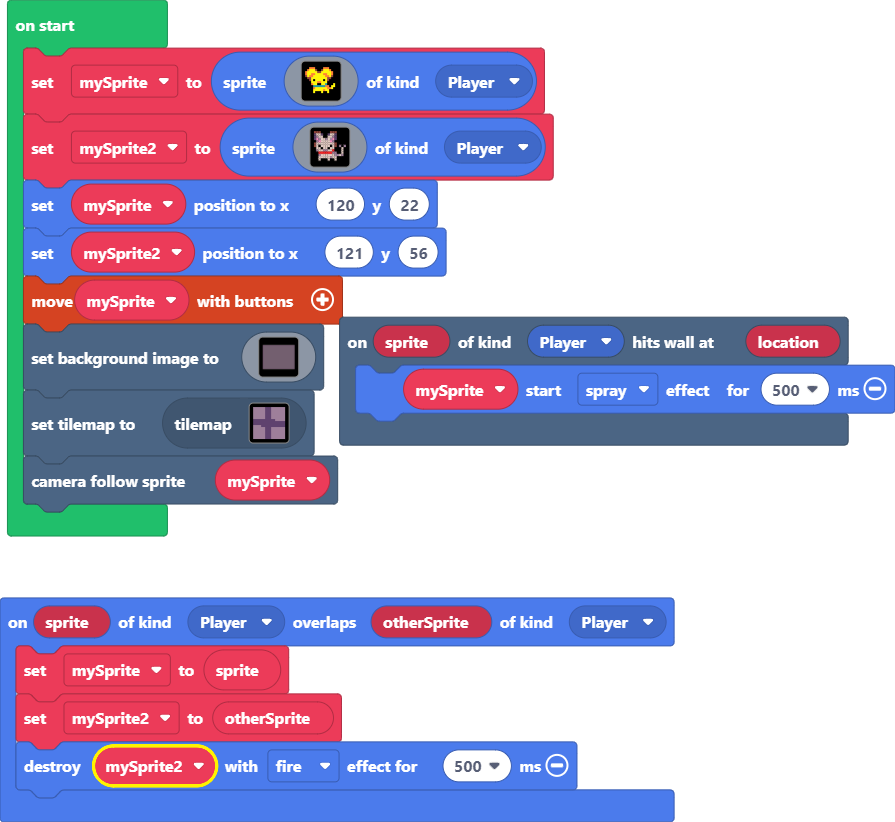
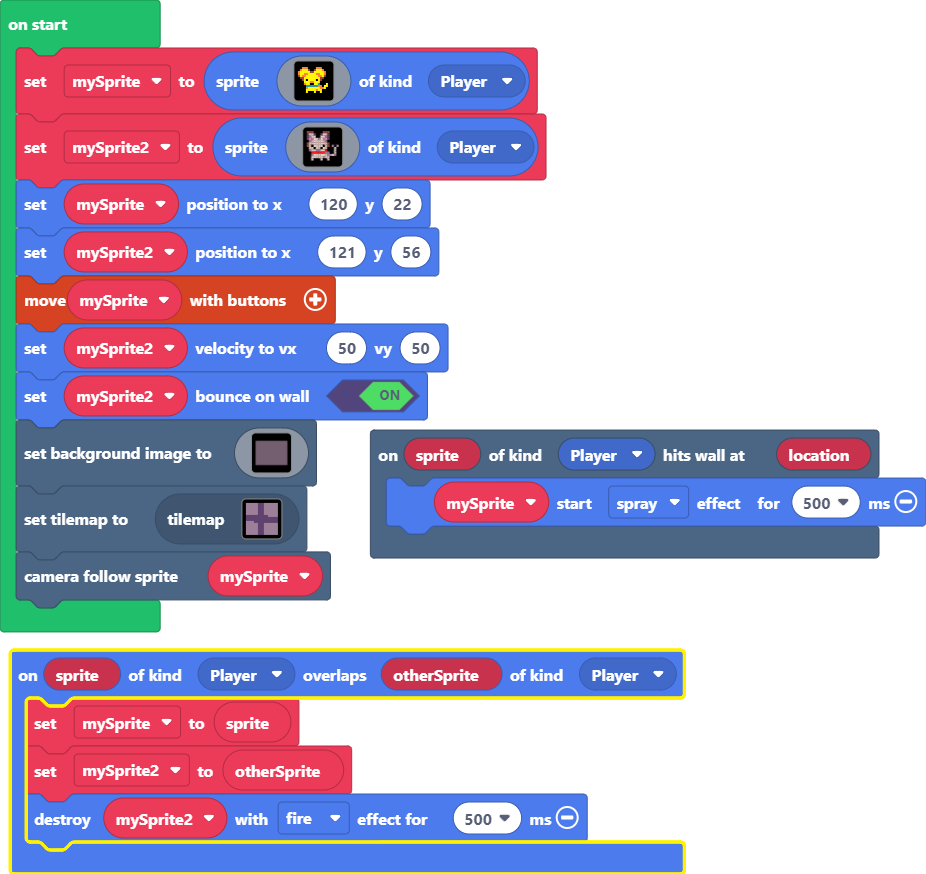
Velocity+bouncing

diff --git a/main.ts b/main.ts
@@ -43,6 +43,8 @@ mySprite2 = sprites.create(img`
 mySprite.setPosition(120, 22)
 mySprite2.setPosition(121, 56)
 controller.moveSprite(mySprite)
+mySprite2.setVelocity(50, 50)
+mySprite2.setBounceOnWall(true)
 scene.setBackgroundImage(img`
     bbbbbbbbbbbbbbbbbbbbbbbbbbbbbbbbbbbbbbbbbbbbbbbbbbbbbbbbbbbbbbbbbbbbbbbbbbbbbbbbbbbbbbbbbbbbbbbbbbbbbbbbbbbbbbbbbbbbbbbbbbbbbbbbbbbbbbbbbbbbbbbbbbbbbbbbbbbbbbbb
     bbbbbbbbbbbbbbbbbbbbbbbbbbbbbbbbbbbbbbbbbbbbbbbbbbbbbbbbbbbbbbbbbbbbbbbbbbbbbbbbbbbbbbbbbbbbbbbbbbbbbbbbbbbbbbbbbbbbbbbbbbbbbbbbbbbbbbbbbbbbbbbbbbbbbbbbbbbbbbbb

diff --git a/main.py b/main.py
@@ -1,0 +1,178 @@
+def on_hit_wall(sprite, location):
+    mySprite.start_effect(effects.spray, 500)
+scene.on_hit_wall(SpriteKind.player, on_hit_wall)
+
+def on_on_overlap(sprite2, otherSprite):
+    global mySprite, mySprite2
+    mySprite = sprite2
+    mySprite2 = otherSprite
+    mySprite2.destroy(effects.fire, 500)
+sprites.on_overlap(SpriteKind.player, SpriteKind.player, on_on_overlap)
+
+mySprite2: Sprite = None
+mySprite: Sprite = None
+mySprite = sprites.create(img("""
+        . . 4 4 4 . . . . 4 4 4 . . . . 
+            . 4 5 5 5 e . . e 5 5 5 4 . . . 
+            4 5 5 5 5 5 e e 5 5 5 5 5 4 . . 
+            4 5 5 4 4 5 5 5 5 4 4 5 5 4 . . 
+            e 5 4 4 5 5 5 5 5 5 4 4 5 e . . 
+            . e e 5 5 5 5 5 5 5 5 e e . . . 
+            . . e 5 f 5 5 5 5 f 5 e . . . . 
+            . . f 5 5 5 4 4 5 5 5 f . . f f 
+            . . f 4 5 5 f f 5 5 6 f . f 5 f 
+            . . . f 6 6 6 6 6 6 4 4 f 5 5 f 
+            . . . f 4 5 5 5 5 5 5 4 4 5 f . 
+            . . . f 5 5 5 5 5 4 5 5 f f . . 
+            . . . f 5 f f f 5 f f 5 f . . . 
+            . . . f f . . f f . . f f . . .
+    """),
+    SpriteKind.player)
+mySprite2 = sprites.create(img("""
+        e e e . . . . e e e . . . . 
+            c d d c . . c d d c . . . . 
+            c b d d f f d d b c . . . . 
+            c 3 b d d b d b 3 c . . . . 
+            f b 3 d d d d 3 b f . . . . 
+            e d d d d d d d d e . . . . 
+            e d f d d d d f d e . b f b 
+            f d d f d d f d d f . f d f 
+            f b d d b b d d 2 f . f d f 
+            . f 2 2 2 2 2 2 b b f f d f 
+            . f b d d d d d d b b d b f 
+            . f d d d d d b d d f f f . 
+            . f d f f f d f f d f . . . 
+            . f f . . f f . . f f . . .
+    """),
+    SpriteKind.player)
+mySprite.set_position(120, 22)
+mySprite2.set_position(121, 56)
+controller.move_sprite(mySprite)
+mySprite2.set_velocity(50, 50)
+mySprite2.set_bounce_on_wall(True)
+scene.set_background_image(img("""
+    bbbbbbbbbbbbbbbbbbbbbbbbbbbbbbbbbbbbbbbbbbbbbbbbbbbbbbbbbbbbbbbbbbbbbbbbbbbbbbbbbbbbbbbbbbbbbbbbbbbbbbbbbbbbbbbbbbbbbbbbbbbbbbbbbbbbbbbbbbbbbbbbbbbbbbbbbbbbbbbb
+        bbbbbbbbbbbbbbbbbbbbbbbbbbbbbbbbbbbbbbbbbbbbbbbbbbbbbbbbbbbbbbbbbbbbbbbbbbbbbbbbbbbbbbbbbbbbbbbbbbbbbbbbbbbbbbbbbbbbbbbbbbbbbbbbbbbbbbbbbbbbbbbbbbbbbbbbbbbbbbbb
+        bbbbbbbbbbbbbbbbbbbbbbbbbbbbbbbbbbbbbbbbbbbbbbbbbbbbbbbbbbbbbbbbbbbbbbbbbbbbbbbbbbbbbbbbbbbbbbbbbbbbbbbbbbbbbbbbbbbbbbbbbbbbbbbbbbbbbbbbbbbbbbbbbbbbbbbbbbbbbbbb
+        bbbbbbbbbbbbbbbbbbbbbbbbbbbbbbbbbbbbbbbbbbbbbbbbbbbbbbbbbbbbbbbbbbbbbbbbbbbbbbbbbbbbbbbbbbbbbbbbbbbbbbbbbbbbbbbbbbbbbbbbbbbbbbbbbbbbbbbbbbbbbbbbbbbbbbbbbbbbbbbb
+        bbbbbbbbbbbbbbbbbbbbbbbbbbbbbbbbbbbbbbbbbbbbbbbbbbbbbbbbbbbbbbbbbbbbbbbbbbbbbbbbbbbbbbbbbbbbbbbbbbbbbbbbbbbbbbbbbbbbbbbbbbbbbbbbbbbbbbbbbbbbbbbbbbbbbbbbbbbbbbbb
+        bbbbbbbbbbbbbbbbbbbbbbbbbbbbbbbbbbbbbbbbbbbbbbbbbbbbbbbbbbbbbbbbbbbbbbbbbbbbbbbbbbbbbbbbbbbbbbbbbbbbbbbbbbbbbbbbbbbbbbbbbbbbbbbbbbbbbbbbbbbbbbbbbbbbbbbbbbbbbbbb
+        bbbbbbbbbbbbbbbbbbbbbbbbbbbbbbbbbbbbbbbbbbbbbbbbbbbbbbbbbbbbbbbbbbbbbbbbbbbbbbbbbbbbbbbbbbbbbbbbbbbbbbbbbbbbbbbbbbbbbbbbbbbbbbbbbbbbbbbbbbbbbbbbbbbbbbbbbbbbbbbb
+        bbbbbbbbbbbbbbbbbbbbbbbbbbbbbbbbbbbbbbbbbbbbbbbbbbbbbbbbbbbbbbbbbbbbbbbbbbbbbbbbbbbbbbbbbbbbbbbbbbbbbbbbbbbbbbbbbbbbbbbbbbbbbbbbbbbbbbbbbbbbbbbbbbbbbbbbbbbbbbbb
+        bbbbbbbbbbbbbbbbbbbbbbbbbbbbbbbbbbbbbbbbbbbbbbbbbbbbbbbbbbbbbbbbbbbbbbbbbbbbbbbbbbbbbbbbbbbbbbbbbbbbbbbbbbbbbbbbbbbbbbbbbbbbbbbbbbbbbbbbbbbbbbbbbbbbbbbbbbbbbbbb
+        bbbbbbbbbbbbbbbbbbbbbbbbbbbbbbbbbbbbbbbbbbbbbbbbbbbbbbbbbbbbbbbbbbbbbbbbbbbbbbbbbbbbbbbbbbbbbbbbbbbbbbbbbbbbbbbbbbbbbbbbbbbbbbbbbbbbbbbbbbbbbbbbbbbbbbbbbbbbbbbb
+        bbbbbbbbbbbbbbbbbbbbbbbbbbbbbbbbbbbbbbbbbbbbbbbbbbbbbbbbbbbbbbbbbbbbbbbbbbbbbbbbbbbbbbbbbbbbbbbbbbbbbbbbbbbbbbbbbbbbbbbbbbbbbbbbbbbbbbbbbbbbbbbbbbbbbbbbbbbbbbbb
+        bbbbbbbbbbbbbbbbbbbbbbbbbbbbbbbbbbbbbbbbbbbbbbbbbbbbbbbbbbbbbbbbbbbbbbbbbbbbbbbbbbbbbbbbbbbbbbbbbbbbbbbbbbbbbbbbbbbbbbbbbbbbbbbbbbbbbbbbbbbbbbbbbbbbbbbbbbbbbbbb
+        bbbbbbbbbbbbbbbbbbbbbbbbbbbbbbbbbbbbbbbbbbbbbbbbbbbbbbbbbbbbbbbbbbbbbbbbbbbbbbbbbbbbbbbbbbbbbbbbbbbbbbbbbbbbbbbbbbbbbbbbbbbbbbbbbbbbbbbbbbbbbbbbbbbbbbbbbbbbbbbb
+        bbbbbbbbbbbbbbbbbbbbbbbbbbbbbbbbbbbbbbbbbbbbbbbbbbbbbbbbbbbbbbbbbbbbbbbbbbbbbbbbbbbbbbbbbbbbbbbbbbbbbbbbbbbbbbbbbbbbbbbbbbbbbbbbbbbbbbbbbbbbbbbbbbbbbbbbbbbbbbbb
+        bbbbbbbbbbbbbbbbbbbbbbbbbbbbbbbbbbbbbbbbbbbbbbbbbbbbbbbbbbbbbbbbbbbbbbbbbbbbbbbbbbbbbbbbbbbbbbbbbbbbbbbbbbbbbbbbbbbbbbbbbbbbbbbbbbbbbbbbbbbbbbbbbbbbbbbbbbbbbbbb
+        bbbbbbbbbbbbbbbbbbbbbbbbbbbbbbbbbbbbbbbbbbbbbbbbbbbbbbbbbbbbbbbbbbbbbbbbbbbbbbbbbbbbbbbbbbbbbbbbbbbbbbbbbbbbbbbbbbbbbbbbbbbbbbbbbbbbbbbbbbbbbbbbbbbbbbbbbbbbbbbb
+        bbbbbbbbbbbbbbbbbbbbbbbbbbbbbbbbbbbbbbbbbbbbbbbbbbbbbbbbbbbbbbbbbbbbbbbbbbbbbbbbbbbbbbbbbbbbbbbbbbbbbbbbbbbbbbbbbbbbbbbbbbbbbbbbbbbbbbbbbbbbbbbbbbbbbbbbbbbbbbbb
+        bbbbbbbbbbbbbbbbbbbbbbbbbbbbbbbbbbbbbbbbbbbbbbbbbbbbbbbbbbbbbbbbbbbbbbbbbbbbbbbbbbbbbbbbbbbbbbbbbbbbbbbbbbbbbbbbbbbbbbbbbbbbbbbbbbbbbbbbbbbbbbbbbbbbbbbbbbbbbbbb
+        bbbbbbbbbbbbbbbbbbbbbbbbbbbbbbbbbbbbbbbbbbbbbbbbbbbbbbbbbbbbbbbbbbbbbbbbbbbbbbbbbbbbbbbbbbbbbbbbbbbbbbbbbbbbbbbbbbbbbbbbbbbbbbbbbbbbbbbbbbbbbbbbbbbbbbbbbbbbbbbb
+        bbbbbbbbbbbbbbbbbbbbbbbbbbbbbbbbbbbbbbbbbbbbbbbbbbbbbbbbbbbbbbbbbbbbbbbbbbbbbbbbbbbbbbbbbbbbbbbbbbbbbbbbbbbbbbbbbbbbbbbbbbbbbbbbbbbbbbbbbbbbbbbbbbbbbbbbbbbbbbbb
+        bbbbbbbbbbbbbbbbbbbbbbbbbbbbbbbbbbbbbbbbbbbbbbbbbbbbbbbbbbbbbbbbbbbbbbbbbbbbbbbbbbbbbbbbbbbbbbbbbbbbbbbbbbbbbbbbbbbbbbbbbbbbbbbbbbbbbbbbbbbbbbbbbbbbbbbbbbbbbbbb
+        bbbbbbbbbbbbbbbbbbbbbbbbbbbbbbbbbbbbbbbbbbbbbbbbbbbbbbbbbbbbbbbbbbbbbbbbbbbbbbbbbbbbbbbbbbbbbbbbbbbbbbbbbbbbbbbbbbbbbbbbbbbbbbbbbbbbbbbbbbbbbbbbbbbbbbbbbbbbbbbb
+        bbbbbbbbbbbbbbbbbbbbbbbbbbbbbbbbbbbbbbbbbbbbbbbbbbbbbbbbbbbbbbbbbbbbbbbbbbbbbbbbbbbbbbbbbbbbbbbbbbbbbbbbbbbbbbbbbbbbbbbbbbbbbbbbbbbbbbbbbbbbbbbbbbbbbbbbbbbbbbbb
+        bbbbbbbbbbbbbbbbbbbbbbbbbbbbbbbbbbbbbbbbbbbbbbbbbbbbbbbbbbbbbbbbbbbbbbbbbbbbbbbbbbbbbbbbbbbbbbbbbbbbbbbbbbbbbbbbbbbbbbbbbbbbbbbbbbbbbbbbbbbbbbbbbbbbbbbbbbbbbbbb
+        bbbbbbbbbbbbbbbbbbbbbbbbbbbbbbbbbbbbbbbbbbbbbbbbbbbbbbbbbbbbbbbbbbbbbbbbbbbbbbbbbbbbbbbbbbbbbbbbbbbbbbbbbbbbbbbbbbbbbbbbbbbbbbbbbbbbbbbbbbbbbbbbbbbbbbbbbbbbbbbb
+        bbbbbbbbbbbbbbbbbbbbbbbbbbbbbbbbbbbbbbbbbbbbbbbbbbbbbbbbbbbbbbbbbbbbbbbbbbbbbbbbbbbbbbbbbbbbbbbbbbbbbbbbbbbbbbbbbbbbbbbbbbbbbbbbbbbbbbbbbbbbbbbbbbbbbbbbbbbbbbbb
+        bbbbbbbbbbbbbbbbbbbbbbbbbbbbbbbbbbbbbbbbbbbbbbbbbbbbbbbbbbbbbbbbbbbbbbbbbbbbbbbbbbbbbbbbbbbbbbbbbbbbbbbbbbbbbbbbbbbbbbbbbbbbbbbbbbbbbbbbbbbbbbbbbbbbbbbbbbbbbbbb
+        bbbbbbbbbbbbbbbbbbbbbbbbbbbbbbbbbbbbbbbbbbbbbbbbbbbbbbbbbbbbbbbbbbbbbbbbbbbbbbbbbbbbbbbbbbbbbbbbbbbbbbbbbbbbbbbbbbbbbbbbbbbbbbbbbbbbbbbbbbbbbbbbbbbbbbbbbbbbbbbb
+        bbbbbbbbbbbbbbbbbbbbbbbbbbbbbbbbbbbbbbbbbbbbbbbbbbbbbbbbbbbbbbbbbbbbbbbbbbbbbbbbbbbbbbbbbbbbbbbbbbbbbbbbbbbbbbbbbbbbbbbbbbbbbbbbbbbbbbbbbbbbbbbbbbbbbbbbbbbbbbbb
+        bbbbbbbbbbbbbbbbbbbbbbbbbbbbbbbbbbbbbbbbbbbbbbbbbbbbbbbbbbbbbbbbbbbbbbbbbbbbbbbbbbbbbbbbbbbbbbbbbbbbbbbbbbbbbbbbbbbbbbbbbbbbbbbbbbbbbbbbbbbbbbbbbbbbbbbbbbbbbbbb
+        bbbbbbbbbbbbbbbbbbbbbbbbbbbbbbbbbbbbbbbbbbbbbbbbbbbbbbbbbbbbbbbbbbbbbbbbbbbbbbbbbbbbbbbbbbbbbbbbbbbbbbbbbbbbbbbbbbbbbbbbbbbbbbbbbbbbbbbbbbbbbbbbbbbbbbbbbbbbbbbb
+        bbbbbbbbbbbbbbbbbbbbbbbbbbbbbbbbbbbbbbbbbbbbbbbbbbbbbbbbbbbbbbbbbbbbbbbbbbbbbbbbbbbbbbbbbbbbbbbbbbbbbbbbbbbbbbbbbbbbbbbbbbbbbbbbbbbbbbbbbbbbbbbbbbbbbbbbbbbbbbbb
+        bbbbbbbbbbbbbbbbbbbbbbbbbbbbbbbbbbbbbbbbbbbbbbbbbbbbbbbbbbbbbbbbbbbbbbbbbbbbbbbbbbbbbbbbbbbbbbbbbbbbbbbbbbbbbbbbbbbbbbbbbbbbbbbbbbbbbbbbbbbbbbbbbbbbbbbbbbbbbbbb
+        bbbbbbbbbbbbbbbbbbbbbbbbbbbbbbbbbbbbbbbbbbbbbbbbbbbbbbbbbbbbbbbbbbbbbbbbbbbbbbbbbbbbbbbbbbbbbbbbbbbbbbbbbbbbbbbbbbbbbbbbbbbbbbbbbbbbbbbbbbbbbbbbbbbbbbbbbbbbbbbb
+        bbbbbbbbbbbbbbbbbbbbbbbbbbbbbbbbbbbbbbbbbbbbbbbbbbbbbbbbbbbbbbbbbbbbbbbbbbbbbbbbbbbbbbbbbbbbbbbbbbbbbbbbbbbbbbbbbbbbbbbbbbbbbbbbbbbbbbbbbbbbbbbbbbbbbbbbbbbbbbbb
+        bbbbbbbbbbbbbbbbbbbbbbbbbbbbbbbbbbbbbbbbbbbbbbbbbbbbbbbbbbbbbbbbbbbbbbbbbbbbbbbbbbbbbbbbbbbbbbbbbbbbbbbbbbbbbbbbbbbbbbbbbbbbbbbbbbbbbbbbbbbbbbbbbbbbbbbbbbbbbbbb
+        bbbbbbbbbbbbbbbbbbbbbbbbbbbbbbbbbbbbbbbbbbbbbbbbbbbbbbbbbbbbbbbbbbbbbbbbbbbbbbbbbbbbbbbbbbbbbbbbbbbbbbbbbbbbbbbbbbbbbbbbbbbbbbbbbbbbbbbbbbbbbbbbbbbbbbbbbbbbbbbb
+        bbbbbbbbbbbbbbbbbbbbbbbbbbbbbbbbbbbbbbbbbbbbbbbbbbbbbbbbbbbbbbbbbbbbbbbbbbbbbbbbbbbbbbbbbbbbbbbbbbbbbbbbbbbbbbbbbbbbbbbbbbbbbbbbbbbbbbbbbbbbbbbbbbbbbbbbbbbbbbbb
+        bbbbbbbbbbbbbbbbbbbbbbbbbbbbbbbbbbbbbbbbbbbbbbbbbbbbbbbbbbbbbbbbbbbbbbbbbbbbbbbbbbbbbbbbbbbbbbbbbbbbbbbbbbbbbbbbbbbbbbbbbbbbbbbbbbbbbbbbbbbbbbbbbbbbbbbbbbbbbbbb
+        bbbbbbbbbbbbbbbbbbbbbbbbbbbbbbbbbbbbbbbbbbbbbbbbbbbbbbbbbbbbbbbbbbbbbbbbbbbbbbbbbbbbbbbbbbbbbbbbbbbbbbbbbbbbbbbbbbbbbbbbbbbbbbbbbbbbbbbbbbbbbbbbbbbbbbbbbbbbbbbb
+        bbbbbbbbbbbbbbbbbbbbbbbbbbbbbbbbbbbbbbbbbbbbbbbbbbbbbbbbbbbbbbbbbbbbbbbbbbbbbbbbbbbbbbbbbbbbbbbbbbbbbbbbbbbbbbbbbbbbbbbbbbbbbbbbbbbbbbbbbbbbbbbbbbbbbbbbbbbbbbbb
+        bbbbbbbbbbbbbbbbbbbbbbbbbbbbbbbbbbbbbbbbbbbbbbbbbbbbbbbbbbbbbbbbbbbbbbbbbbbbbbbbbbbbbbbbbbbbbbbbbbbbbbbbbbbbbbbbbbbbbbbbbbbbbbbbbbbbbbbbbbbbbbbbbbbbbbbbbbbbbbbb
+        bbbbbbbbbbbbbbbbbbbbbbbbbbbbbbbbbbbbbbbbbbbbbbbbbbbbbbbbbbbbbbbbbbbbbbbbbbbbbbbbbbbbbbbbbbbbbbbbbbbbbbbbbbbbbbbbbbbbbbbbbbbbbbbbbbbbbbbbbbbbbbbbbbbbbbbbbbbbbbbb
+        bbbbbbbbbbbbbbbbbbbbbbbbbbbbbbbbbbbbbbbbbbbbbbbbbbbbbbbbbbbbbbbbbbbbbbbbbbbbbbbbbbbbbbbbbbbbbbbbbbbbbbbbbbbbbbbbbbbbbbbbbbbbbbbbbbbbbbbbbbbbbbbbbbbbbbbbbbbbbbbb
+        bbbbbbbbbbbbbbbbbbbbbbbbbbbbbbbbbbbbbbbbbbbbbbbbbbbbbbbbbbbbbbbbbbbbbbbbbbbbbbbbbbbbbbbbbbbbbbbbbbbbbbbbbbbbbbbbbbbbbbbbbbbbbbbbbbbbbbbbbbbbbbbbbbbbbbbbbbbbbbbb
+        bbbbbbbbbbbbbbbbbbbbbbbbbbbbbbbbbbbbbbbbbbbbbbbbbbbbbbbbbbbbbbbbbbbbbbbbbbbbbbbbbbbbbbbbbbbbbbbbbbbbbbbbbbbbbbbbbbbbbbbbbbbbbbbbbbbbbbbbbbbbbbbbbbbbbbbbbbbbbbbb
+        bbbbbbbbbbbbbbbbbbbbbbbbbbbbbbbbbbbbbbbbbbbbbbbbbbbbbbbbbbbbbbbbbbbbbbbbbbbbbbbbbbbbbbbbbbbbbbbbbbbbbbbbbbbbbbbbbbbbbbbbbbbbbbbbbbbbbbbbbbbbbbbbbbbbbbbbbbbbbbbb
+        bbbbbbbbbbbbbbbbbbbbbbbbbbbbbbbbbbbbbbbbbbbbbbbbbbbbbbbbbbbbbbbbbbbbbbbbbbbbbbbbbbbbbbbbbbbbbbbbbbbbbbbbbbbbbbbbbbbbbbbbbbbbbbbbbbbbbbbbbbbbbbbbbbbbbbbbbbbbbbbb
+        bbbbbbbbbbbbbbbbbbbbbbbbbbbbbbbbbbbbbbbbbbbbbbbbbbbbbbbbbbbbbbbbbbbbbbbbbbbbbbbbbbbbbbbbbbbbbbbbbbbbbbbbbbbbbbbbbbbbbbbbbbbbbbbbbbbbbbbbbbbbbbbbbbbbbbbbbbbbbbbb
+        bbbbbbbbbbbbbbbbbbbbbbbbbbbbbbbbbbbbbbbbbbbbbbbbbbbbbbbbbbbbbbbbbbbbbbbbbbbbbbbbbbbbbbbbbbbbbbbbbbbbbbbbbbbbbbbbbbbbbbbbbbbbbbbbbbbbbbbbbbbbbbbbbbbbbbbbbbbbbbbb
+        bbbbbbbbbbbbbbbbbbbbbbbbbbbbbbbbbbbbbbbbbbbbbbbbbbbbbbbbbbbbbbbbbbbbbbbbbbbbbbbbbbbbbbbbbbbbbbbbbbbbbbbbbbbbbbbbbbbbbbbbbbbbbbbbbbbbbbbbbbbbbbbbbbbbbbbbbbbbbbbb
+        bbbbbbbbbbbbbbbbbbbbbbbbbbbbbbbbbbbbbbbbbbbbbbbbbbbbbbbbbbbbbbbbbbbbbbbbbbbbbbbbbbbbbbbbbbbbbbbbbbbbbbbbbbbbbbbbbbbbbbbbbbbbbbbbbbbbbbbbbbbbbbbbbbbbbbbbbbbbbbbb
+        bbbbbbbbbbbbbbbbbbbbbbbbbbbbbbbbbbbbbbbbbbbbbbbbbbbbbbbbbbbbbbbbbbbbbbbbbbbbbbbbbbbbbbbbbbbbbbbbbbbbbbbbbbbbbbbbbbbbbbbbbbbbbbbbbbbbbbbbbbbbbbbbbbbbbbbbbbbbbbbb
+        bbbbbbbbbbbbbbbbbbbbbbbbbbbbbbbbbbbbbbbbbbbbbbbbbbbbbbbbbbbbbbbbbbbbbbbbbbbbbbbbbbbbbbbbbbbbbbbbbbbbbbbbbbbbbbbbbbbbbbbbbbbbbbbbbbbbbbbbbbbbbbbbbbbbbbbbbbbbbbbb
+        bbbbbbbbbbbbbbbbbbbbbbbbbbbbbbbbbbbbbbbbbbbbbbbbbbbbbbbbbbbbbbbbbbbbbbbbbbbbbbbbbbbbbbbbbbbbbbbbbbbbbbbbbbbbbbbbbbbbbbbbbbbbbbbbbbbbbbbbbbbbbbbbbbbbbbbbbbbbbbbb
+        bbbbbbbbbbbbbbbbbbbbbbbbbbbbbbbbbbbbbbbbbbbbbbbbbbbbbbbbbbbbbbbbbbbbbbbbbbbbbbbbbbbbbbbbbbbbbbbbbbbbbbbbbbbbbbbbbbbbbbbbbbbbbbbbbbbbbbbbbbbbbbbbbbbbbbbbbbbbbbbb
+        bbbbbbbbbbbbbbbbbbbbbbbbbbbbbbbbbbbbbbbbbbbbbbbbbbbbbbbbbbbbbbbbbbbbbbbbbbbbbbbbbbbbbbbbbbbbbbbbbbbbbbbbbbbbbbbbbbbbbbbbbbbbbbbbbbbbbbbbbbbbbbbbbbbbbbbbbbbbbbbb
+        bbbbbbbbbbbbbbbbbbbbbbbbbbbbbbbbbbbbbbbbbbbbbbbbbbbbbbbbbbbbbbbbbbbbbbbbbbbbbbbbbbbbbbbbbbbbbbbbbbbbbbbbbbbbbbbbbbbbbbbbbbbbbbbbbbbbbbbbbbbbbbbbbbbbbbbbbbbbbbbb
+        bbbbbbbbbbbbbbbbbbbbbbbbbbbbbbbbbbbbbbbbbbbbbbbbbbbbbbbbbbbbbbbbbbbbbbbbbbbbbbbbbbbbbbbbbbbbbbbbbbbbbbbbbbbbbbbbbbbbbbbbbbbbbbbbbbbbbbbbbbbbbbbbbbbbbbbbbbbbbbbb
+        bbbbbbbbbbbbbbbbbbbbbbbbbbbbbbbbbbbbbbbbbbbbbbbbbbbbbbbbbbbbbbbbbbbbbbbbbbbbbbbbbbbbbbbbbbbbbbbbbbbbbbbbbbbbbbbbbbbbbbbbbbbbbbbbbbbbbbbbbbbbbbbbbbbbbbbbbbbbbbbb
+        bbbbbbbbbbbbbbbbbbbbbbbbbbbbbbbbbbbbbbbbbbbbbbbbbbbbbbbbbbbbbbbbbbbbbbbbbbbbbbbbbbbbbbbbbbbbbbbbbbbbbbbbbbbbbbbbbbbbbbbbbbbbbbbbbbbbbbbbbbbbbbbbbbbbbbbbbbbbbbbb
+        bbbbbbbbbbbbbbbbbbbbbbbbbbbbbbbbbbbbbbbbbbbbbbbbbbbbbbbbbbbbbbbbbbbbbbbbbbbbbbbbbbbbbbbbbbbbbbbbbbbbbbbbbbbbbbbbbbbbbbbbbbbbbbbbbbbbbbbbbbbbbbbbbbbbbbbbbbbbbbbb
+        bbbbbbbbbbbbbbbbbbbbbbbbbbbbbbbbbbbbbbbbbbbbbbbbbbbbbbbbbbbbbbbbbbbbbbbbbbbbbbbbbbbbbbbbbbbbbbbbbbbbbbbbbbbbbbbbbbbbbbbbbbbbbbbbbbbbbbbbbbbbbbbbbbbbbbbbbbbbbbbb
+        bbbbbbbbbbbbbbbbbbbbbbbbbbbbbbbbbbbbbbbbbbbbbbbbbbbbbbbbbbbbbbbbbbbbbbbbbbbbbbbbbbbbbbbbbbbbbbbbbbbbbbbbbbbbbbbbbbbbbbbbbbbbbbbbbbbbbbbbbbbbbbbbbbbbbbbbbbbbbbbb
+        bbbbbbbbbbbbbbbbbbbbbbbbbbbbbbbbbbbbbbbbbbbbbbbbbbbbbbbbbbbbbbbbbbbbbbbbbbbbbbbbbbbbbbbbbbbbbbbbbbbbbbbbbbbbbbbbbbbbbbbbbbbbbbbbbbbbbbbbbbbbbbbbbbbbbbbbbbbbbbbb
+        bbbbbbbbbbbbbbbbbbbbbbbbbbbbbbbbbbbbbbbbbbbbbbbbbbbbbbbbbbbbbbbbbbbbbbbbbbbbbbbbbbbbbbbbbbbbbbbbbbbbbbbbbbbbbbbbbbbbbbbbbbbbbbbbbbbbbbbbbbbbbbbbbbbbbbbbbbbbbbbb
+        bbbbbbbbbbbbbbbbbbbbbbbbbbbbbbbbbbbbbbbbbbbbbbbbbbbbbbbbbbbbbbbbbbbbbbbbbbbbbbbbbbbbbbbbbbbbbbbbbbbbbbbbbbbbbbbbbbbbbbbbbbbbbbbbbbbbbbbbbbbbbbbbbbbbbbbbbbbbbbbb
+        bbbbbbbbbbbbbbbbbbbbbbbbbbbbbbbbbbbbbbbbbbbbbbbbbbbbbbbbbbbbbbbbbbbbbbbbbbbbbbbbbbbbbbbbbbbbbbbbbbbbbbbbbbbbbbbbbbbbbbbbbbbbbbbbbbbbbbbbbbbbbbbbbbbbbbbbbbbbbbbb
+        bbbbbbbbbbbbbbbbbbbbbbbbbbbbbbbbbbbbbbbbbbbbbbbbbbbbbbbbbbbbbbbbbbbbbbbbbbbbbbbbbbbbbbbbbbbbbbbbbbbbbbbbbbbbbbbbbbbbbbbbbbbbbbbbbbbbbbbbbbbbbbbbbbbbbbbbbbbbbbbb
+        bbbbbbbbbbbbbbbbbbbbbbbbbbbbbbbbbbbbbbbbbbbbbbbbbbbbbbbbbbbbbbbbbbbbbbbbbbbbbbbbbbbbbbbbbbbbbbbbbbbbbbbbbbbbbbbbbbbbbbbbbbbbbbbbbbbbbbbbbbbbbbbbbbbbbbbbbbbbbbbb
+        bbbbbbbbbbbbbbbbbbbbbbbbbbbbbbbbbbbbbbbbbbbbbbbbbbbbbbbbbbbbbbbbbbbbbbbbbbbbbbbbbbbbbbbbbbbbbbbbbbbbbbbbbbbbbbbbbbbbbbbbbbbbbbbbbbbbbbbbbbbbbbbbbbbbbbbbbbbbbbbb
+        bbbbbbbbbbbbbbbbbbbbbbbbbbbbbbbbbbbbbbbbbbbbbbbbbbbbbbbbbbbbbbbbbbbbbbbbbbbbbbbbbbbbbbbbbbbbbbbbbbbbbbbbbbbbbbbbbbbbbbbbbbbbbbbbbbbbbbbbbbbbbbbbbbbbbbbbbbbbbbbb
+        bbbbbbbbbbbbbbbbbbbbbbbbbbbbbbbbbbbbbbbbbbbbbbbbbbbbbbbbbbbbbbbbbbbbbbbbbbbbbbbbbbbbbbbbbbbbbbbbbbbbbbbbbbbbbbbbbbbbbbbbbbbbbbbbbbbbbbbbbbbbbbbbbbbbbbbbbbbbbbbb
+        bbbbbbbbbbbbbbbbbbbbbbbbbbbbbbbbbbbbbbbbbbbbbbbbbbbbbbbbbbbbbbbbbbbbbbbbbbbbbbbbbbbbbbbbbbbbbbbbbbbbbbbbbbbbbbbbbbbbbbbbbbbbbbbbbbbbbbbbbbbbbbbbbbbbbbbbbbbbbbbb
+        bbbbbbbbbbbbbbbbbbbbbbbbbbbbbbbbbbbbbbbbbbbbbbbbbbbbbbbbbbbbbbbbbbbbbbbbbbbbbbbbbbbbbbbbbbbbbbbbbbbbbbbbbbbbbbbbbbbbbbbbbbbbbbbbbbbbbbbbbbbbbbbbbbbbbbbbbbbbbbbb
+        bbbbbbbbbbbbbbbbbbbbbbbbbbbbbbbbbbbbbbbbbbbbbbbbbbbbbbbbbbbbbbbbbbbbbbbbbbbbbbbbbbbbbbbbbbbbbbbbbbbbbbbbbbbbbbbbbbbbbbbbbbbbbbbbbbbbbbbbbbbbbbbbbbbbbbbbbbbbbbbb
+        bbbbbbbbbbbbbbbbbbbbbbbbbbbbbbbbbbbbbbbbbbbbbbbbbbbbbbbbbbbbbbbbbbbbbbbbbbbbbbbbbbbbbbbbbbbbbbbbbbbbbbbbbbbbbbbbbbbbbbbbbbbbbbbbbbbbbbbbbbbbbbbbbbbbbbbbbbbbbbbb
+        bbbbbbbbbbbbbbbbbbbbbbbbbbbbbbbbbbbbbbbbbbbbbbbbbbbbbbbbbbbbbbbbbbbbbbbbbbbbbbbbbbbbbbbbbbbbbbbbbbbbbbbbbbbbbbbbbbbbbbbbbbbbbbbbbbbbbbbbbbbbbbbbbbbbbbbbbbbbbbbb
+        bbbbbbbbbbbbbbbbbbbbbbbbbbbbbbbbbbbbbbbbbbbbbbbbbbbbbbbbbbbbbbbbbbbbbbbbbbbbbbbbbbbbbbbbbbbbbbbbbbbbbbbbbbbbbbbbbbbbbbbbbbbbbbbbbbbbbbbbbbbbbbbbbbbbbbbbbbbbbbbb
+        bbbbbbbbbbbbbbbbbbbbbbbbbbbbbbbbbbbbbbbbbbbbbbbbbbbbbbbbbbbbbbbbbbbbbbbbbbbbbbbbbbbbbbbbbbbbbbbbbbbbbbbbbbbbbbbbbbbbbbbbbbbbbbbbbbbbbbbbbbbbbbbbbbbbbbbbbbbbbbbb
+        bbbbbbbbbbbbbbbbbbbbbbbbbbbbbbbbbbbbbbbbbbbbbbbbbbbbbbbbbbbbbbbbbbbbbbbbbbbbbbbbbbbbbbbbbbbbbbbbbbbbbbbbbbbbbbbbbbbbbbbbbbbbbbbbbbbbbbbbbbbbbbbbbbbbbbbbbbbbbbbb
+        bbbbbbbbbbbbbbbbbbbbbbbbbbbbbbbbbbbbbbbbbbbbbbbbbbbbbbbbbbbbbbbbbbbbbbbbbbbbbbbbbbbbbbbbbbbbbbbbbbbbbbbbbbbbbbbbbbbbbbbbbbbbbbbbbbbbbbbbbbbbbbbbbbbbbbbbbbbbbbbb
+        bbbbbbbbbbbbbbbbbbbbbbbbbbbbbbbbbbbbbbbbbbbbbbbbbbbbbbbbbbbbbbbbbbbbbbbbbbbbbbbbbbbbbbbbbbbbbbbbbbbbbbbbbbbbbbbbbbbbbbbbbbbbbbbbbbbbbbbbbbbbbbbbbbbbbbbbbbbbbbbb
+        bbbbbbbbbbbbbbbbbbbbbbbbbbbbbbbbbbbbbbbbbbbbbbbbbbbbbbbbbbbbbbbbbbbbbbbbbbbbbbbbbbbbbbbbbbbbbbbbbbbbbbbbbbbbbbbbbbbbbbbbbbbbbbbbbbbbbbbbbbbbbbbbbbbbbbbbbbbbbbbb
+        bbbbbbbbbbbbbbbbbbbbbbbbbbbbbbbbbbbbbbbbbbbbbbbbbbbbbbbbbbbbbbbbbbbbbbbbbbbbbbbbbbbbbbbbbbbbbbbbbbbbbbbbbbbbbbbbbbbbbbbbbbbbbbbbbbbbbbbbbbbbbbbbbbbbbbbbbbbbbbbb
+        bbbbbbbbbbbbbbbbbbbbbbbbbbbbbbbbbbbbbbbbbbbbbbbbbbbbbbbbbbbbbbbbbbbbbbbbbbbbbbbbbbbbbbbbbbbbbbbbbbbbbbbbbbbbbbbbbbbbbbbbbbbbbbbbbbbbbbbbbbbbbbbbbbbbbbbbbbbbbbbb
+        bbbbbbbbbbbbbbbbbbbbbbbbbbbbbbbbbbbbbbbbbbbbbbbbbbbbbbbbbbbbbbbbbbbbbbbbbbbbbbbbbbbbbbbbbbbbbbbbbbbbbbbbbbbbbbbbbbbbbbbbbbbbbbbbbbbbbbbbbbbbbbbbbbbbbbbbbbbbbbbb
+        bbbbbbbbbbbbbbbbbbbbbbbbbbbbbbbbbbbbbbbbbbbbbbbbbbbbbbbbbbbbbbbbbbbbbbbbbbbbbbbbbbbbbbbbbbbbbbbbbbbbbbbbbbbbbbbbbbbbbbbbbbbbbbbbbbbbbbbbbbbbbbbbbbbbbbbbbbbbbbbb
+        bbbbbbbbbbbbbbbbbbbbbbbbbbbbbbbbbbbbbbbbbbbbbbbbbbbbbbbbbbbbbbbbbbbbbbbbbbbbbbbbbbbbbbbbbbbbbbbbbbbbbbbbbbbbbbbbbbbbbbbbbbbbbbbbbbbbbbbbbbbbbbbbbbbbbbbbbbbbbbbb
+        bbbbbbbbbbbbbbbbbbbbbbbbbbbbbbbbbbbbbbbbbbbbbbbbbbbbbbbbbbbbbbbbbbbbbbbbbbbbbbbbbbbbbbbbbbbbbbbbbbbbbbbbbbbbbbbbbbbbbbbbbbbbbbbbbbbbbbbbbbbbbbbbbbbbbbbbbbbbbbbb
+        bbbbbbbbbbbbbbbbbbbbbbbbbbbbbbbbbbbbbbbbbbbbbbbbbbbbbbbbbbbbbbbbbbbbbbbbbbbbbbbbbbbbbbbbbbbbbbbbbbbbbbbbbbbbbbbbbbbbbbbbbbbbbbbbbbbbbbbbbbbbbbbbbbbbbbbbbbbbbbbb
+        bbbbbbbbbbbbbbbbbbbbbbbbbbbbbbbbbbbbbbbbbbbbbbbbbbbbbbbbbbbbbbbbbbbbbbbbbbbbbbbbbbbbbbbbbbbbbbbbbbbbbbbbbbbbbbbbbbbbbbbbbbbbbbbbbbbbbbbbbbbbbbbbbbbbbbbbbbbbbbbb
+        bbbbbbbbbbbbbbbbbbbbbbbbbbbbbbbbbbbbbbbbbbbbbbbbbbbbbbbbbbbbbbbbbbbbbbbbbbbbbbbbbbbbbbbbbbbbbbbbbbbbbbbbbbbbbbbbbbbbbbbbbbbbbbbbbbbbbbbbbbbbbbbbbbbbbbbbbbbbbbbb
+        bbbbbbbbbbbbbbbbbbbbbbbbbbbbbbbbbbbbbbbbbbbbbbbbbbbbbbbbbbbbbbbbbbbbbbbbbbbbbbbbbbbbbbbbbbbbbbbbbbbbbbbbbbbbbbbbbbbbbbbbbbbbbbbbbbbbbbbbbbbbbbbbbbbbbbbbbbbbbbbb
+        bbbbbbbbbbbbbbbbbbbbbbbbbbbbbbbbbbbbbbbbbbbbbbbbbbbbbbbbbbbbbbbbbbbbbbbbbbbbbbbbbbbbbbbbbbbbbbbbbbbbbbbbbbbbbbbbbbbbbbbbbbbbbbbbbbbbbbbbbbbbbbbbbbbbbbbbbbbbbbbb
+        bbbbbbbbbbbbbbbbbbbbbbbbbbbbbbbbbbbbbbbbbbbbbbbbbbbbbbbbbbbbbbbbbbbbbbbbbbbbbbbbbbbbbbbbbbbbbbbbbbbbbbbbbbbbbbbbbbbbbbbbbbbbbbbbbbbbbbbbbbbbbbbbbbbbbbbbbbbbbbbb
+        bbbbbbbbbbbbbbbbbbbbbbbbbbbbbbbbbbbbbbbbbbbbbbbbbbbbbbbbbbbbbbbbbbbbbbbbbbbbbbbbbbbbbbbbbbbbbbbbbbbbbbbbbbbbbbbbbbbbbbbbbbbbbbbbbbbbbbbbbbbbbbbbbbbbbbbbbbbbbbbb
+        bbbbbbbbbbbbbbbbbbbbbbbbbbbbbbbbbbbbbbbbbbbbbbbbbbbbbbbbbbbbbbbbbbbbbbbbbbbbbbbbbbbbbbbbbbbbbbbbbbbbbbbbbbbbbbbbbbbbbbbbbbbbbbbbbbbbbbbbbbbbbbbbbbbbbbbbbbbbbbbb
+        bbbbbbbbbbbbbbbbbbbbbbbbbbbbbbbbbbbbbbbbbbbbbbbbbbbbbbbbbbbbbbbbbbbbbbbbbbbbbbbbbbbbbbbbbbbbbbbbbbbbbbbbbbbbbbbbbbbbbbbbbbbbbbbbbbbbbbbbbbbbbbbbbbbbbbbbbbbbbbbb
+        bbbbbbbbbbbbbbbbbbbbbbbbbbbbbbbbbbbbbbbbbbbbbbbbbbbbbbbbbbbbbbbbbbbbbbbbbbbbbbbbbbbbbbbbbbbbbbbbbbbbbbbbbbbbbbbbbbbbbbbbbbbbbbbbbbbbbbbbbbbbbbbbbbbbbbbbbbbbbbbb
+        bbbbbbbbbbbbbbbbbbbbbbbbbbbbbbbbbbbbbbbbbbbbbbbbbbbbbbbbbbbbbbbbbbbbbbbbbbbbbbbbbbbbbbbbbbbbbbbbbbbbbbbbbbbbbbbbbbbbbbbbbbbbbbbbbbbbbbbbbbbbbbbbbbbbbbbbbbbbbbbb
+        bbbbbbbbbbbbbbbbbbbbbbbbbbbbbbbbbbbbbbbbbbbbbbbbbbbbbbbbbbbbbbbbbbbbbbbbbbbbbbbbbbbbbbbbbbbbbbbbbbbbbbbbbbbbbbbbbbbbbbbbbbbbbbbbbbbbbbbbbbbbbbbbbbbbbbbbbbbbbbbb
+        bbbbbbbbbbbbbbbbbbbbbbbbbbbbbbbbbbbbbbbbbbbbbbbbbbbbbbbbbbbbbbbbbbbbbbbbbbbbbbbbbbbbbbbbbbbbbbbbbbbbbbbbbbbbbbbbbbbbbbbbbbbbbbbbbbbbbbbbbbbbbbbbbbbbbbbbbbbbbbbb
+        bbbbbbbbbbbbbbbbbbbbbbbbbbbbbbbbbbbbbbbbbbbbbbbbbbbbbbbbbbbbbbbbbbbbbbbbbbbbbbbbbbbbbbbbbbbbbbbbbbbbbbbbbbbbbbbbbbbbbbbbbbbbbbbbbbbbbbbbbbbbbbbbbbbbbbbbbbbbbbbb
+        bbbbbbbbbbbbbbbbbbbbbbbbbbbbbbbbbbbbbbbbbbbbbbbbbbbbbbbbbbbbbbbbbbbbbbbbbbbbbbbbbbbbbbbbbbbbbbbbbbbbbbbbbbbbbbbbbbbbbbbbbbbbbbbbbbbbbbbbbbbbbbbbbbbbbbbbbbbbbbbb
+        bbbbbbbbbbbbbbbbbbbbbbbbbbbbbbbbbbbbbbbbbbbbbbbbbbbbbbbbbbbbbbbbbbbbbbbbbbbbbbbbbbbbbbbbbbbbbbbbbbbbbbbbbbbbbbbbbbbbbbbbbbbbbbbbbbbbbbbbbbbbbbbbbbbbbbbbbbbbbbbb
+        bbbbbbbbbbbbbbbbbbbbbbbbbbbbbbbbbbbbbbbbbbbbbbbbbbbbbbbbbbbbbbbbbbbbbbbbbbbbbbbbbbbbbbbbbbbbbbbbbbbbbbbbbbbbbbbbbbbbbbbbbbbbbbbbbbbbbbbbbbbbbbbbbbbbbbbbbbbbbbbb
+        bbbbbbbbbbbbbbbbbbbbbbbbbbbbbbbbbbbbbbbbbbbbbbbbbbbbbbbbbbbbbbbbbbbbbbbbbbbbbbbbbbbbbbbbbbbbbbbbbbbbbbbbbbbbbbbbbbbbbbbbbbbbbbbbbbbbbbbbbbbbbbbbbbbbbbbbbbbbbbbb
+        bbbbbbbbbbbbbbbbbbbbbbbbbbbbbbbbbbbbbbbbbbbbbbbbbbbbbbbbbbbbbbbbbbbbbbbbbbbbbbbbbbbbbbbbbbbbbbbbbbbbbbbbbbbbbbbbbbbbbbbbbbbbbbbbbbbbbbbbbbbbbbbbbbbbbbbbbbbbbbbb
+        bbbbbbbbbbbbbbbbbbbbbbbbbbbbbbbbbbbbbbbbbbbbbbbbbbbbbbbbbbbbbbbbbbbbbbbbbbbbbbbbbbbbbbbbbbbbbbbbbbbbbbbbbbbbbbbbbbbbbbbbbbbbbbbbbbbbbbbbbbbbbbbbbbbbbbbbbbbbbbbb
+        bbbbbbbbbbbbbbbbbbbbbbbbbbbbbbbbbbbbbbbbbbbbbbbbbbbbbbbbbbbbbbbbbbbbbbbbbbbbbbbbbbbbbbbbbbbbbbbbbbbbbbbbbbbbbbbbbbbbbbbbbbbbbbbbbbbbbbbbbbbbbbbbbbbbbbbbbbbbbbbb
+        bbbbbbbbbbbbbbbbbbbbbbbbbbbbbbbbbbbbbbbbbbbbbbbbbbbbbbbbbbbbbbbbbbbbbbbbbbbbbbbbbbbbbbbbbbbbbbbbbbbbbbbbbbbbbbbbbbbbbbbbbbbbbbbbbbbbbbbbbbbbbbbbbbbbbbbbbbbbbbbb
+        bbbbbbbbbbbbbbbbbbbbbbbbbbbbbbbbbbbbbbbbbbbbbbbbbbbbbbbbbbbbbbbbbbbbbbbbbbbbbbbbbbbbbbbbbbbbbbbbbbbbbbbbbbbbbbbbbbbbbbbbbbbbbbbbbbbbbbbbbbbbbbbbbbbbbbbbbbbbbbbb
+        bbbbbbbbbbbbbbbbbbbbbbbbbbbbbbbbbbbbbbbbbbbbbbbbbbbbbbbbbbbbbbbbbbbbbbbbbbbbbbbbbbbbbbbbbbbbbbbbbbbbbbbbbbbbbbbbbbbbbbbbbbbbbbbbbbbbbbbbbbbbbbbbbbbbbbbbbbbbbbbb
+        bbbbbbbbbbbbbbbbbbbbbbbbbbbbbbbbbbbbbbbbbbbbbbbbbbbbbbbbbbbbbbbbbbbbbbbbbbbbbbbbbbbbbbbbbbbbbbbbbbbbbbbbbbbbbbbbbbbbbbbbbbbbbbbbbbbbbbbbbbbbbbbbbbbbbbbbbbbbbbbb
+        bbbbbbbbbbbbbbbbbbbbbbbbbbbbbbbbbbbbbbbbbbbbbbbbbbbbbbbbbbbbbbbbbbbbbbbbbbbbbbbbbbbbbbbbbbbbbbbbbbbbbbbbbbbbbbbbbbbbbbbbbbbbbbbbbbbbbbbbbbbbbbbbbbbbbbbbbbbbbbbb
+        bbbbbbbbbbbbbbbbbbbbbbbbbbbbbbbbbbbbbbbbbbbbbbbbbbbbbbbbbbbbbbbbbbbbbbbbbbbbbbbbbbbbbbbbbbbbbbbbbbbbbbbbbbbbbbbbbbbbbbbbbbbbbbbbbbbbbbbbbbbbbbbbbbbbbbbbbbbbbbbb
+        bbbbbbbbbbbbbbbbbbbbbbbbbbbbbbbbbbbbbbbbbbbbbbbbbbbbbbbbbbbbbbbbbbbbbbbbbbbbbbbbbbbbbbbbbbbbbbbbbbbbbbbbbbbbbbbbbbbbbbbbbbbbbbbbbbbbbbbbbbbbbbbbbbbbbbbbbbbbbbbb
+        bbbbbbbbbbbbbbbbbbbbbbbbbbbbbbbbbbbbbbbbbbbbbbbbbbbbbbbbbbbbbbbbbbbbbbbbbbbbbbbbbbbbbbbbbbbbbbbbbbbbbbbbbbbbbbbbbbbbbbbbbbbbbbbbbbbbbbbbbbbbbbbbbbbbbbbbbbbbbbbb
+        bbbbbbbbbbbbbbbbbbbbbbbbbbbbbbbbbbbbbbbbbbbbbbbbbbbbbbbbbbbbbbbbbbbbbbbbbbbbbbbbbbbbbbbbbbbbbbbbbbbbbbbbbbbbbbbbbbbbbbbbbbbbbbbbbbbbbbbbbbbbbbbbbbbbbbbbbbbbbbbb
+"""))
+tiles.set_current_tilemap(tilemap("""
+    level1
+"""))
+scene.camera_follow_sprite(mySprite)
